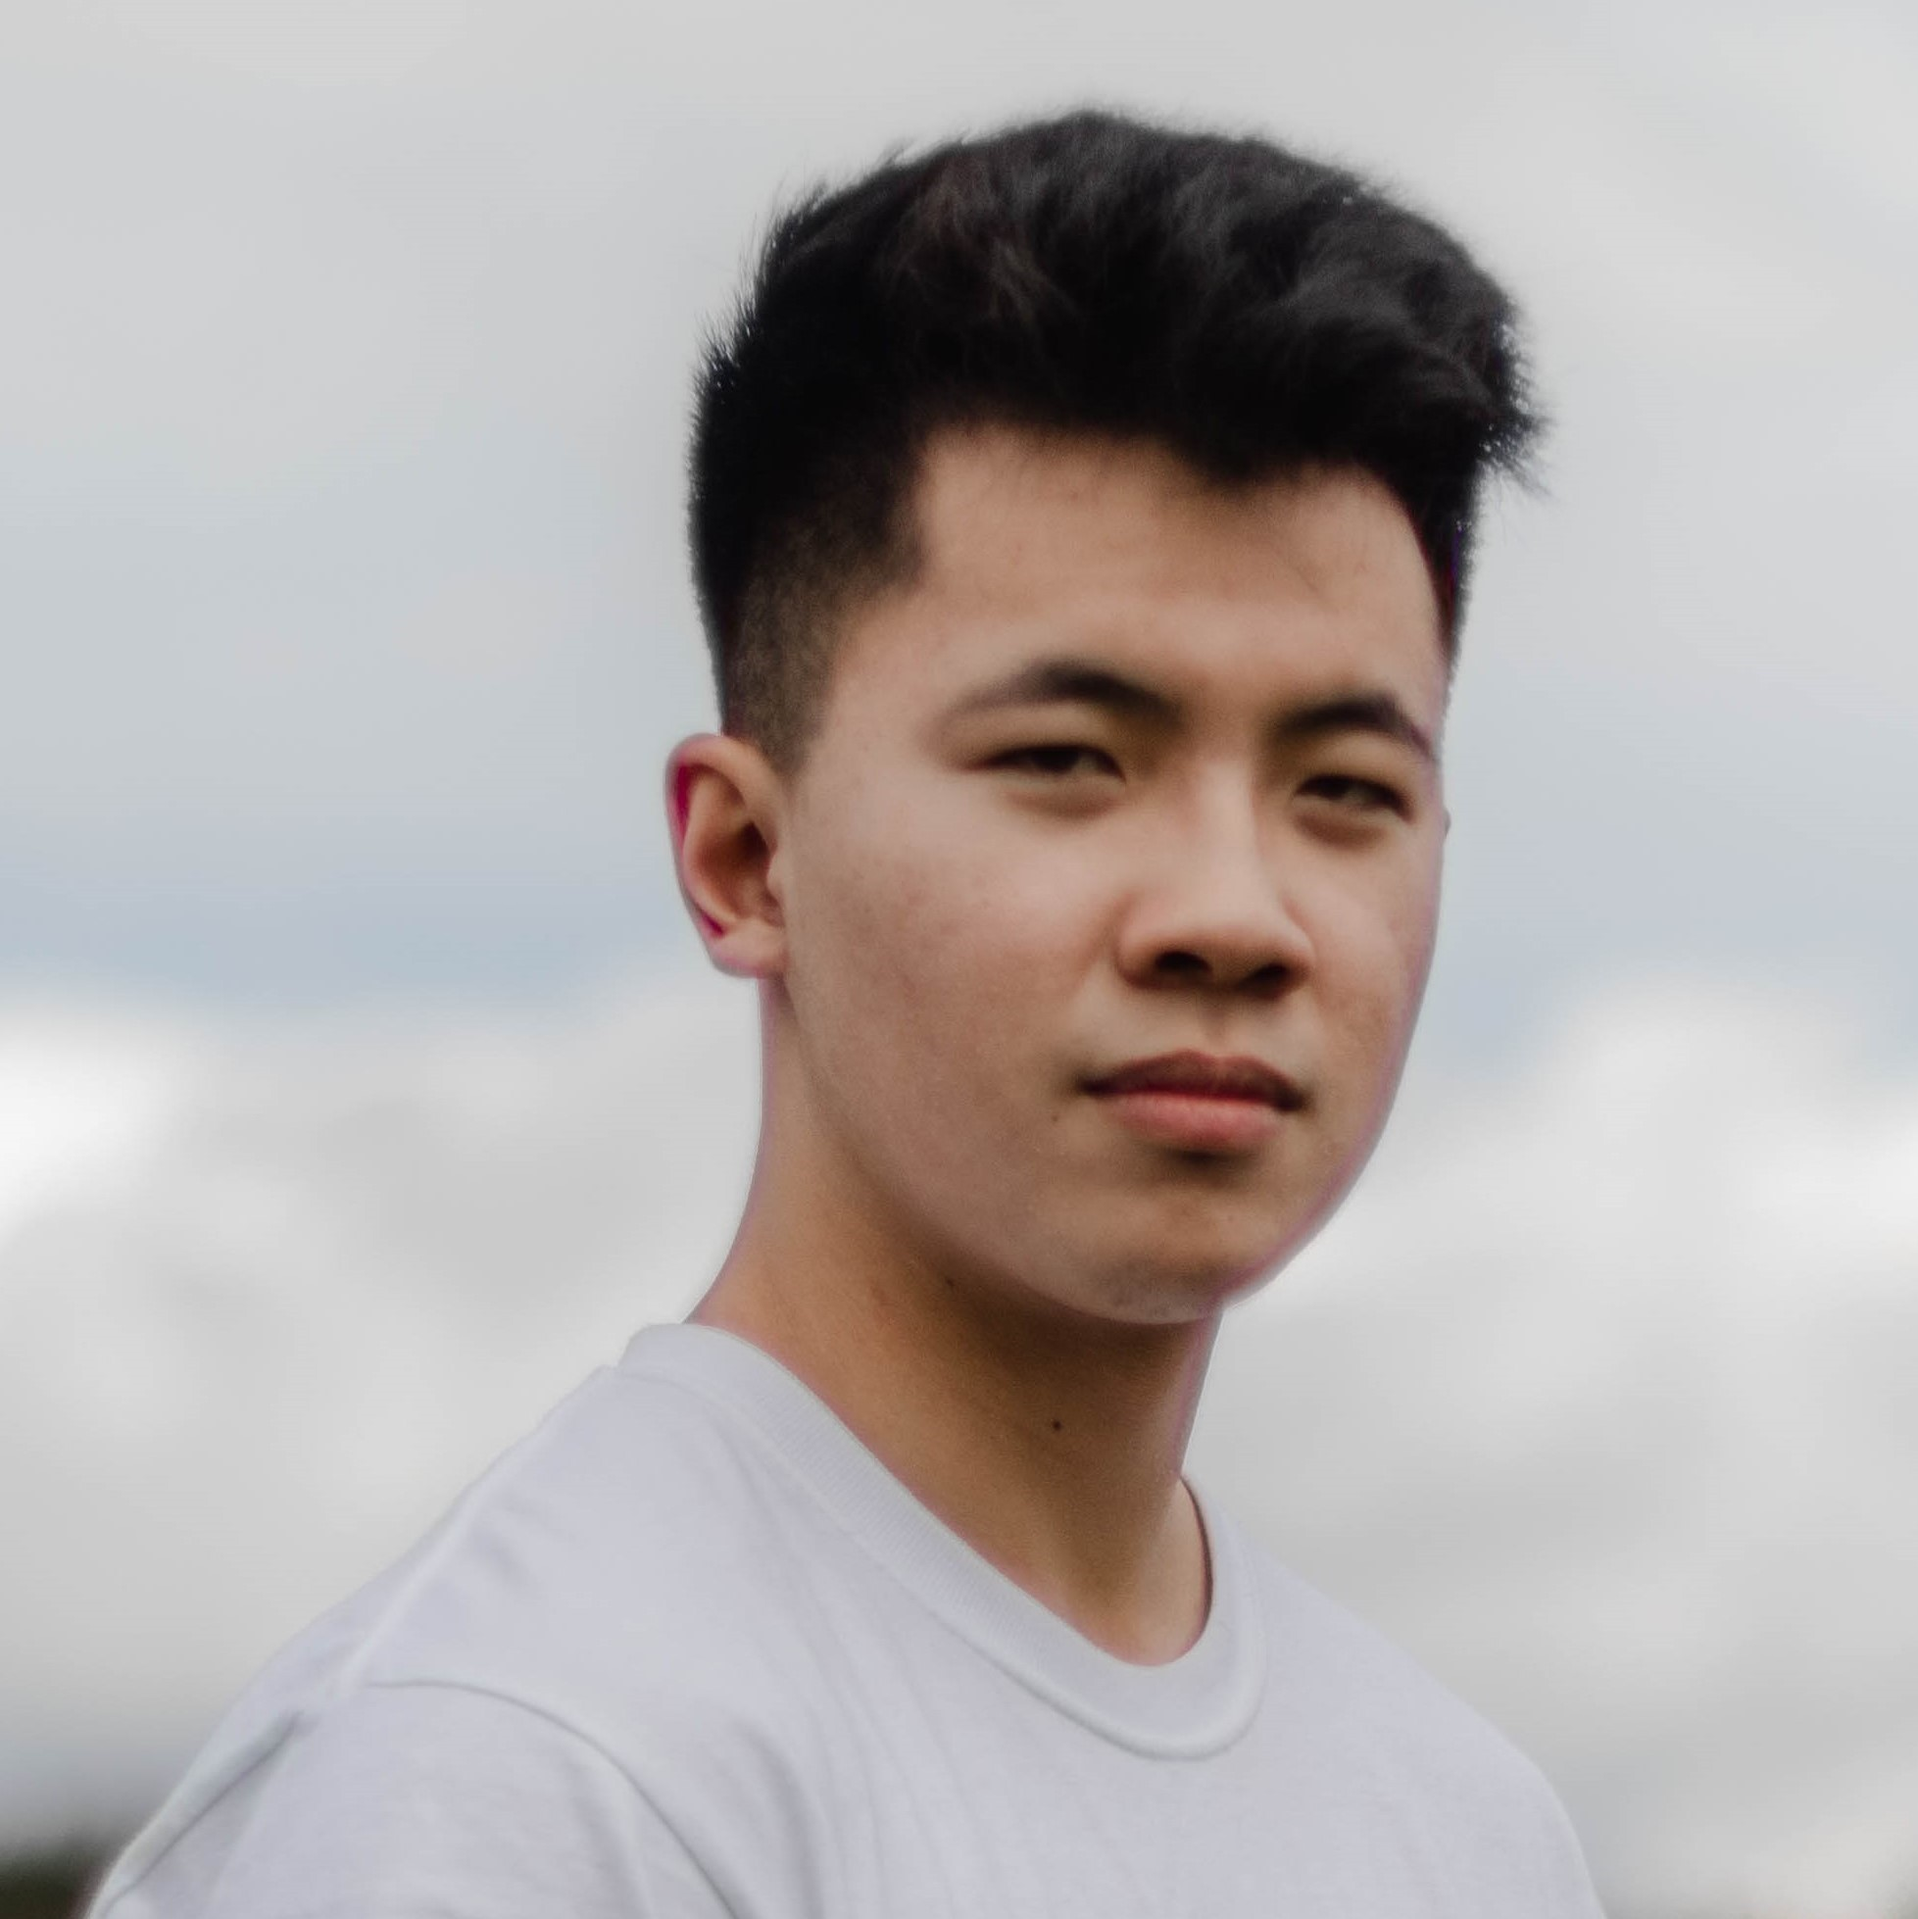
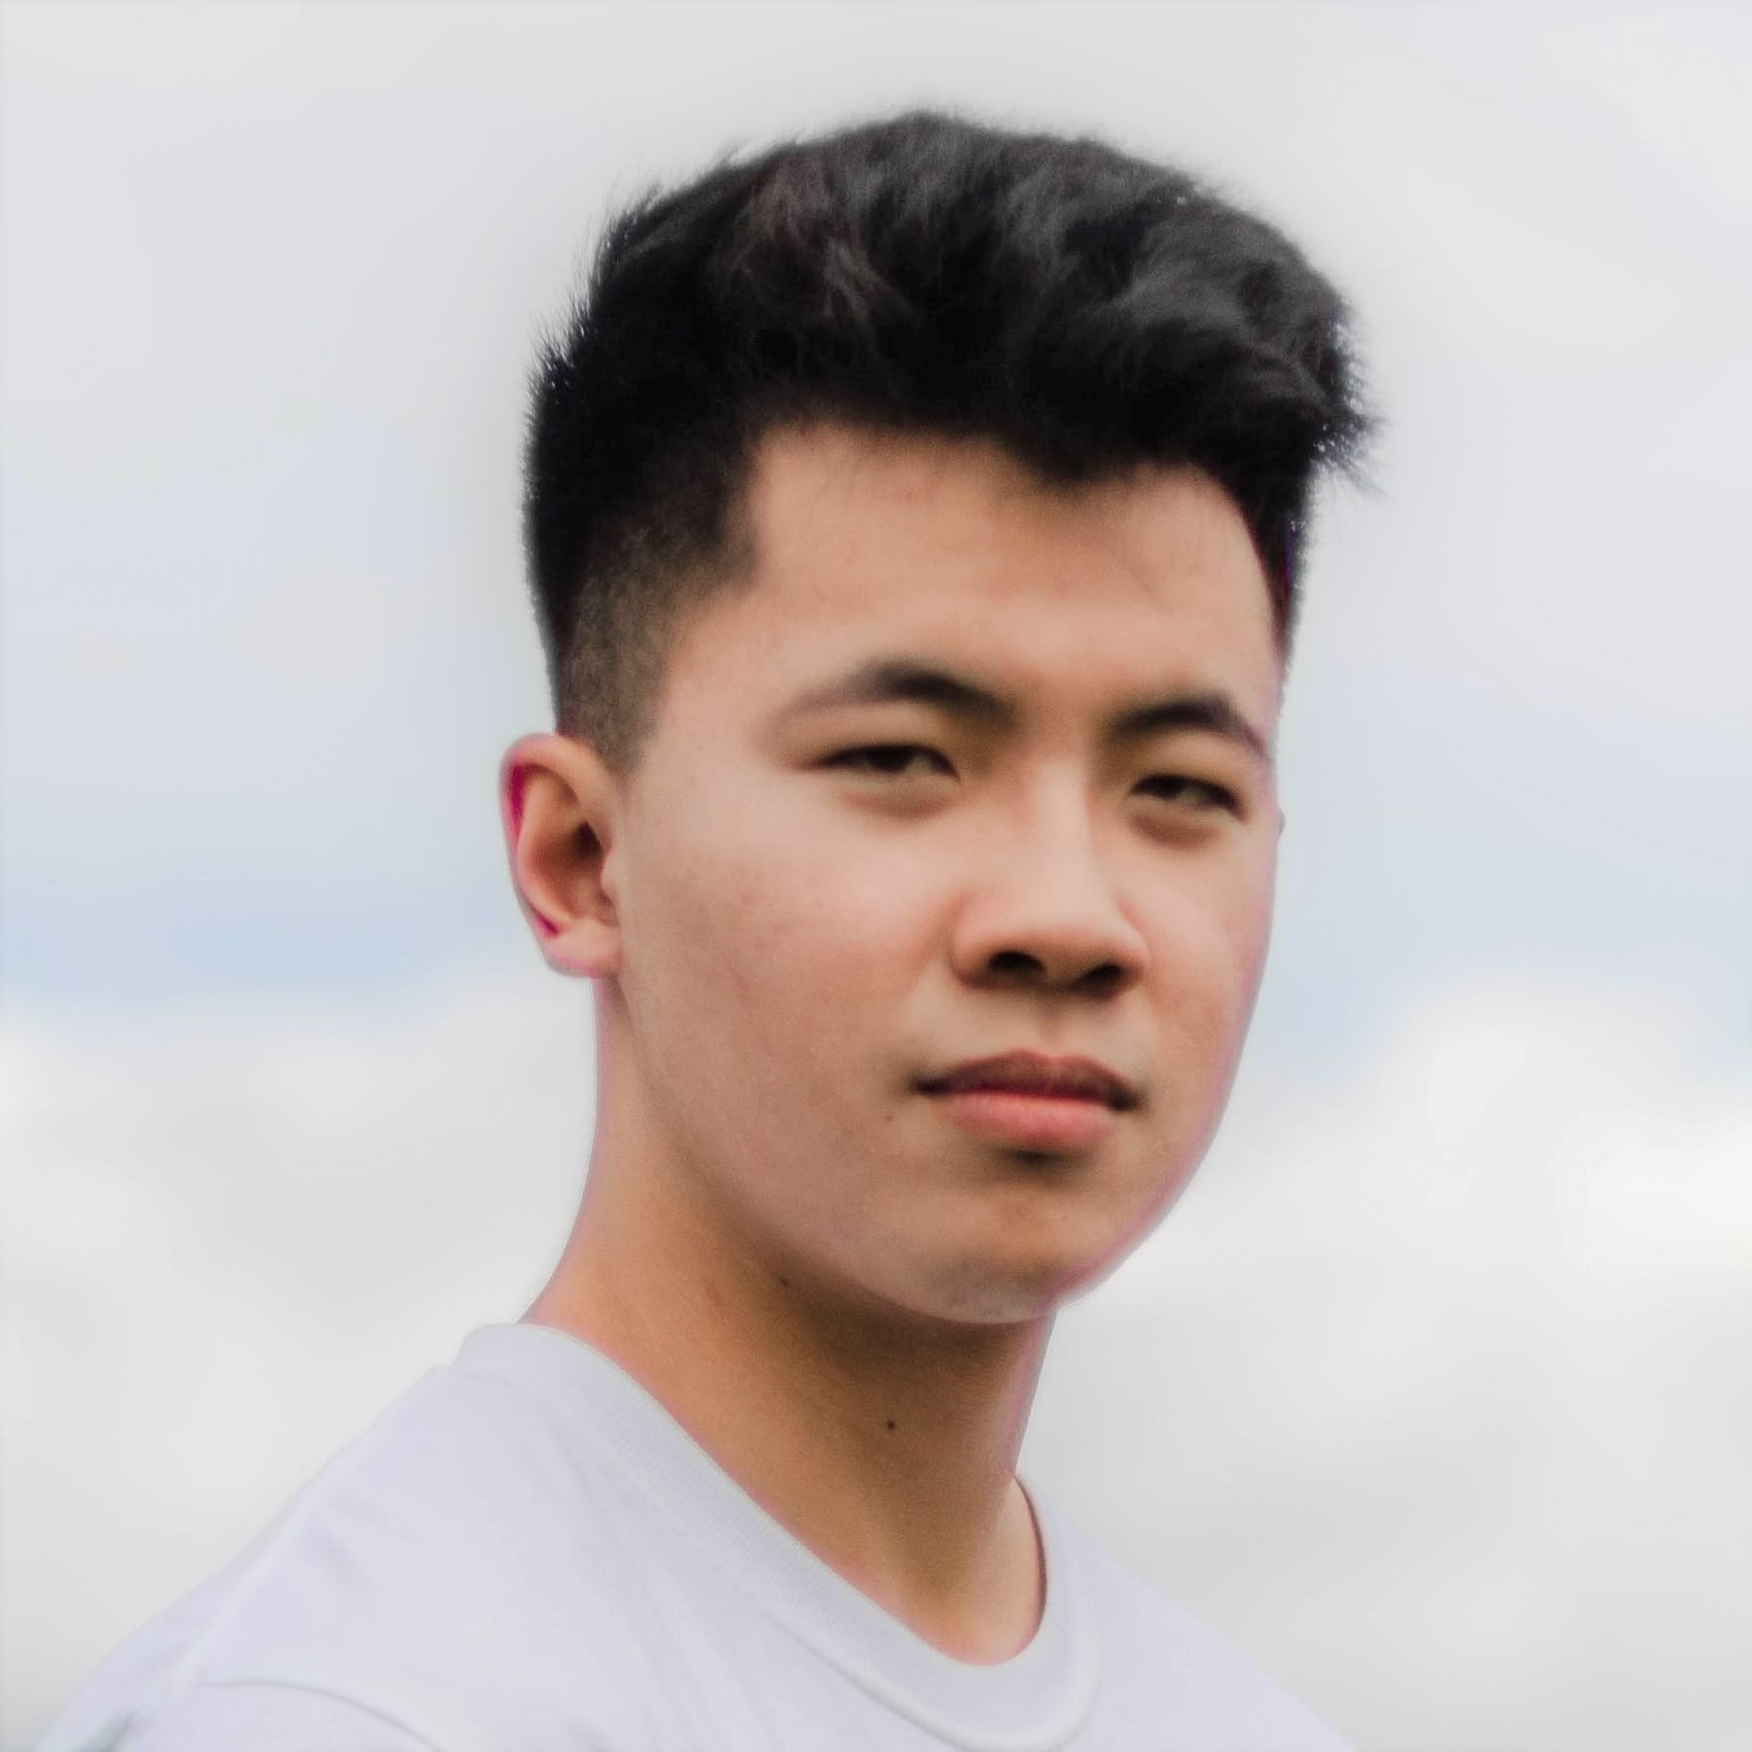
brightened headshot

diff --git a/src/database.js b/src/database.js
@@ -243,7 +243,7 @@ const activities = [
 		title: "Travel",
 		image: "images/travel.jpeg",
 		description:
-			"I find travelling to be a great way to spend time with my family since I'm away studying in University. Some of my fondest memories are discovering beautiful scenes in different corners of the world. Everyone needs breaks and sometimes taking a step away from work to destress and recharge is the best way of staying productive recharge.",
+			"I find travelling to be a great way to spend time with my family since I'm away studying in University. Some of my fondest memories are discovering beautiful scenes in different corners of the world. Everyone needs breaks and sometimes taking a step away from work to recharge is the best way of staying productive.",
 	},
 ];
 

diff --git a/src/Header.jsx b/src/Header.jsx
@@ -10,7 +10,7 @@ class Header extends Component {
 						<div className="col-md-4 col-7">
 							<img
 								className="img-fluid headshot mb-3 py-1"
-								src={process.env.PUBLIC_URL + "/images/headshot1.jpg"}
+								src={process.env.PUBLIC_URL + "/images/headshot.jpg"}
 								alt="Headshot"
 							></img>
 						</div>
